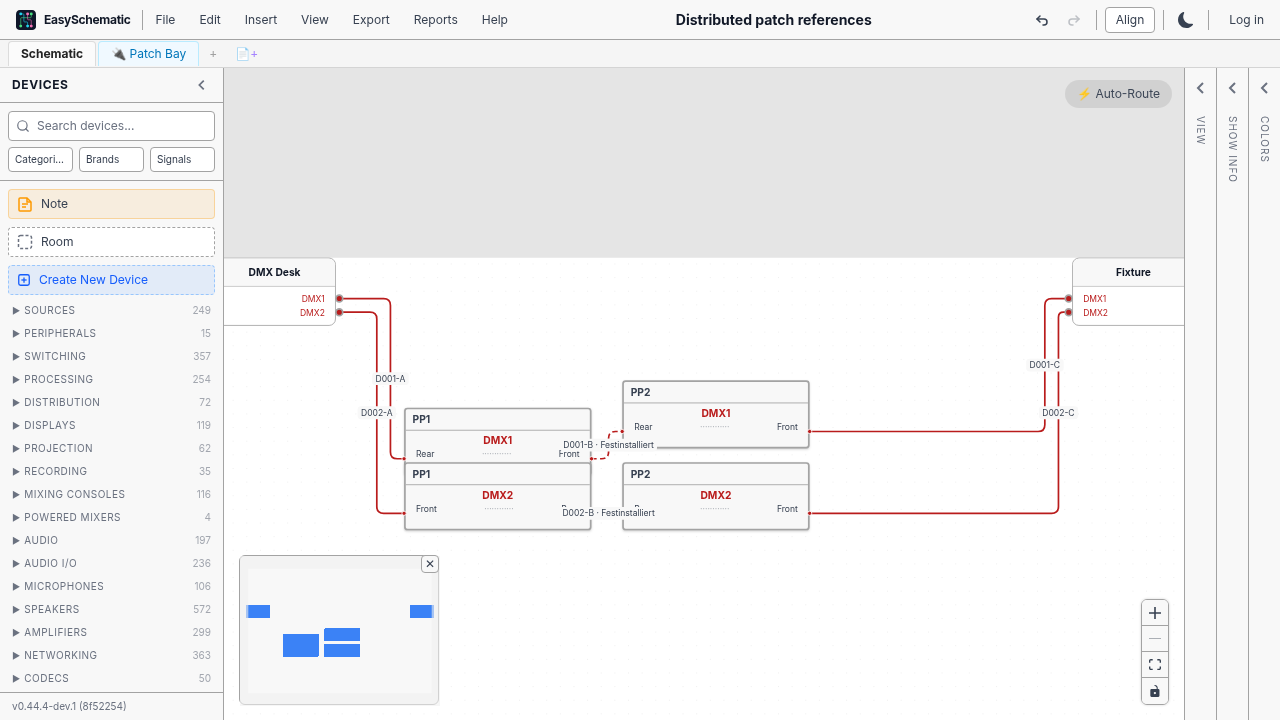
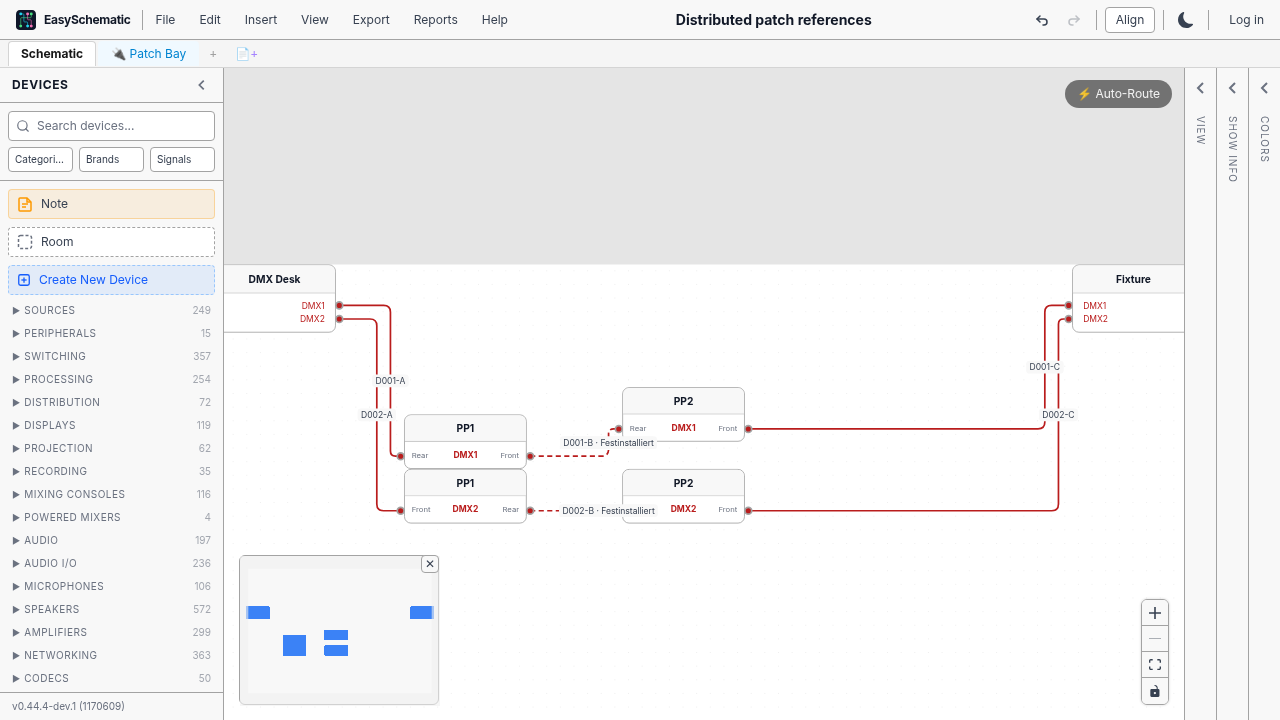
Compact patch references and open Patch Bay on double-click

diff --git a/src/components/PatchReferenceNode.tsx b/src/components/PatchReferenceNode.tsx
@@ -4,6 +4,9 @@ import { useSchematicStore } from "../store";
 import type { PatchReferenceNode as ReferenceNode } from "../types";
 import { entryFace, exitFace } from "../patchCircuits";
 import { signalCssColor } from "../typeRegistry";
+import { contrastingTextColor } from "../colorContrast";
+import { PATCH_REFERENCE_WIDTH, PATCH_REFERENCE_HEIGHT, PATCH_REFERENCE_HANDLE_Y } from "../patchReferences";
+import { openPatchBay } from "../patchBayNavigation";
 
 export default function PatchReferenceNode({ id, data, selected }: NodeProps<ReferenceNode>) {
   const panel = useSchematicStore(s => s.nodes.find(n => n.id === data.panelNodeId));
@@ -14,12 +17,24 @@ export default function PatchReferenceNode({ id, data, selected }: NodeProps<Ref
   const right = hop ? exitFace(hop) : "front";
   useEffect(() => { update(id); }, [id, left, update]);
   const port = panel?.type === "device" ? panel.data.ports.find(p => p.id === data.portId) : undefined;
+  const headerColor = panel?.type === "device" ? panel.data.headerColor : undefined;
+  const label = String(panel?.data.label ?? "Panel");
   const color = signalCssColor(edge?.data?.signalType ?? "custom");
-  return <div data-testid="patch-reference" className={`rounded border-2 bg-[var(--color-surface)] text-[var(--color-text)] shadow-sm ${selected ? "border-blue-500" : "border-[var(--color-border)]"}`} style={{ width: 220, height: 80 }}>
-    <div className="px-2 py-1 text-xs font-semibold truncate border-b border-[var(--color-border)]" title={String(panel?.data.label ?? "Panel")}>{String(panel?.data.label ?? "Panel")}</div>
-    <div className="text-center text-xs font-semibold pt-1 truncate" style={{ color }}>{port?.label || data.portId}</div>
-    <div className="flex justify-between px-3 text-[10px] capitalize"><span>{left}</span><span className="opacity-40">············</span><span>{right}</span></div>
-    <Handle type="source" id={left} position={Position.Left} isConnectable={false} style={{ top: 60, background: color }} />
-    <Handle type="source" id={right} position={Position.Right} isConnectable={false} style={{ top: 60, background: color }} />
+  return <div data-testid="patch-reference" title="Double-click to open Patch Bay"
+    onDoubleClick={() => openPatchBay(data.panelNodeId, data.connectionId)}
+    className={`relative rounded-lg border bg-white ${selected ? "border-blue-500 shadow-lg shadow-blue-500/20" : "border-[var(--color-border)]"}`}
+    style={{ width: PATCH_REFERENCE_WIDTH, height: PATCH_REFERENCE_HEIGHT }}>
+    <div className="px-3 border-b border-[var(--color-border)] rounded-t-lg flex items-center justify-center"
+      style={{ height: 31, backgroundColor: headerColor || "var(--color-surface)" }}>
+      <span className="text-xs font-semibold text-[var(--color-text-heading)] truncate leading-tight" title={label}
+        style={headerColor ? { color: contrastingTextColor(headerColor) } : undefined}>{label}</span>
+    </div>
+    <div className="grid grid-cols-[1fr_1.5fr_1fr] items-center px-2 gap-1" style={{ height: 31 }}>
+      <span className="text-[9px] text-[var(--color-text-muted)] capitalize">{left}</span>
+      <span className="text-[10px] font-semibold text-center truncate" title={port?.label || data.portId} style={{ color }}>{port?.label || data.portId}</span>
+      <span className="text-[9px] text-[var(--color-text-muted)] capitalize text-right">{right}</span>
+    </div>
+    <Handle type="source" id={left} position={Position.Left} isConnectable={false} className="!w-2.5 !h-2.5 !border-2 !border-[var(--color-border)] !-left-[5px]" style={{ top: PATCH_REFERENCE_HANDLE_Y, background: color }} />
+    <Handle type="source" id={right} position={Position.Right} isConnectable={false} className="!w-2.5 !h-2.5 !border-2 !border-[var(--color-border)] !-right-[5px]" style={{ top: PATCH_REFERENCE_HANDLE_Y, background: color }} />
   </div>;
 }

diff --git a/src/dxfExport/index.ts b/src/dxfExport/index.ts
@@ -1,4 +1,4 @@
-import { patchReferenceEdges } from "../patchReferences";
+import { PATCH_REFERENCE_WIDTH, PATCH_REFERENCE_HEIGHT, PATCH_REFERENCE_HANDLE_Y, patchReferenceEdges } from "../patchReferences";
 import { entryFace, exitFace } from "../patchCircuits";
 import type { ReactFlowInstance } from "@xyflow/react";
 import { useSchematicStore } from "../store";
@@ -100,10 +100,11 @@ export function buildDxf(rfInstance: ReactFlowInstance): string | null {
     const port = panel?.type === "device" ? panel.data.ports.find(p => p.id === node.data.portId) : undefined;
     const hop = state.edges.find(e => e.id === node.data.connectionId)?.data?.patchHops?.find(h => h.panelNodeId === node.data.panelNodeId && h.portId === node.data.portId);
     const { x, y } = internal.internals.positionAbsolute;
-    writer.addRect(CANONICAL_LAYERS.DEVICES, pxToIn(x), -pxToIn(y + 80), pxToIn(220), pxToIn(80));
-    writer.addText(CANONICAL_LAYERS.LABELS, pxToIn(x + 8), -pxToIn(y + 18), String(panel?.data.label ?? "Panel"), { height: pxToIn(11) });
-    writer.addText(CANONICAL_LAYERS.PORTS, pxToIn(x + 8), -pxToIn(y + 40), port?.label ?? node.data.portId, { height: pxToIn(11) });
-    writer.addText(CANONICAL_LAYERS.PORTS, pxToIn(x + 8), -pxToIn(y + 60), hop ? `${entryFace(hop)} | ${exitFace(hop)}` : "Rear | Front", { height: pxToIn(10) });
+    writer.addRect(CANONICAL_LAYERS.DEVICES, pxToIn(x), -pxToIn(y + PATCH_REFERENCE_HEIGHT), pxToIn(PATCH_REFERENCE_WIDTH), pxToIn(PATCH_REFERENCE_HEIGHT));
+    writer.addText(CANONICAL_LAYERS.LABELS, pxToIn(x + PATCH_REFERENCE_WIDTH / 2), -pxToIn(y + 20), String(panel?.data.label ?? "Panel"), { height: pxToIn(11), align: "center" });
+    writer.addText(CANONICAL_LAYERS.PORTS, pxToIn(x + PATCH_REFERENCE_WIDTH / 2), -pxToIn(y + PATCH_REFERENCE_HANDLE_Y + 3), port?.label ?? node.data.portId, { height: pxToIn(10), align: "center" });
+    writer.addText(CANONICAL_LAYERS.PORTS, pxToIn(x + 6), -pxToIn(y + PATCH_REFERENCE_HANDLE_Y + 3), hop ? entryFace(hop) : "Rear", { height: pxToIn(8) });
+    writer.addText(CANONICAL_LAYERS.PORTS, pxToIn(x + PATCH_REFERENCE_WIDTH - 6), -pxToIn(y + PATCH_REFERENCE_HANDLE_Y + 3), hop ? exitFace(hop) : "Front", { height: pxToIn(8), align: "right" });
   }
 
   // ─── Annotations ────────────────────────────────────────────────────

diff --git a/src/patchReferences.ts b/src/patchReferences.ts
@@ -1,8 +1,9 @@
 import type { ConnectionEdge, PatchReferenceNode, SchematicNode } from "./types";
 import { entryFace, exitFace, resolvableHops, segmentsForEdge } from "./patchCircuits";
 
-export const PATCH_REFERENCE_WIDTH = 220;
-export const PATCH_REFERENCE_HEIGHT = 80;
+export const PATCH_REFERENCE_WIDTH = 144;
+export const PATCH_REFERENCE_HEIGHT = 64;
+export const PATCH_REFERENCE_HANDLE_Y = 48;
 export function patchReferenceId(edgeId: string, panelId: string, portId: string): string {
   return `patch-ref:${encodeURIComponent(edgeId)}:${encodeURIComponent(panelId)}:${encodeURIComponent(portId)}`;
 }
@@ -35,7 +36,11 @@ export function reconcilePatchReferences(nodes: SchematicNode[], edges: Connecti
       wanted.add(id);
       const hidden = edge.data?.showPatchReferences === false;
       if (old) {
-        if (!!old.hidden !== hidden) updates.set(id, { ...old, hidden });
+        const resized = old.width !== PATCH_REFERENCE_WIDTH || old.height !== PATCH_REFERENCE_HEIGHT;
+        if (!!old.hidden !== hidden || resized) updates.set(id, {
+          ...old, hidden, width: PATCH_REFERENCE_WIDTH, height: PATCH_REFERENCE_HEIGHT,
+          ...(resized ? { measured: undefined } : {}),
+        });
       } else additions.push({
         id, type: "patch-reference", position: { x: sourcePosition.x + 220 + i * 260, y: sourcePosition.y + 140 + lane * 100 },
         width: PATCH_REFERENCE_WIDTH, height: PATCH_REFERENCE_HEIGHT, hidden, zIndex: 5,

diff --git a/e2e/physical-path.spec.ts b/e2e/physical-path.spec.ts
@@ -18,6 +18,8 @@ test("distributed references route to physical faces, remain independently movab
   await expect(page.locator(".react-flow")).toBeVisible({ timeout: 30000 });
   await page.locator('input[type="file"][accept=".json"]').first().setInputFiles({ name: "references.json", mimeType: "application/json", buffer: Buffer.from(JSON.stringify(fixture)) });
   await expect(page.getByTestId("patch-reference")).toHaveCount(4);
+  await expect(page.getByTestId("patch-reference").first()).toHaveCSS("width", "144px");
+  await expect(page.getByTestId("patch-reference").first()).toHaveCSS("height", "64px");
   await expect(page.locator(".react-flow__edge-patch-reference-edge")).toHaveCount(6);
   const refs = page.locator('.react-flow__node-patch-reference');
   const first = refs.nth(0);
@@ -33,7 +35,7 @@ test("distributed references route to physical faces, remain independently movab
   await page.reload();
   await expect(page.getByTestId("patch-reference")).toHaveCount(4);
   await expect.poll(() => page.locator('.react-flow__node-patch-reference').nth(0).getAttribute("style")).toBe(saved);
-  await page.getByRole("button", { name: /Patch Bay/ }).click();
+  await page.getByTestId("patch-reference").first().dblclick();
   const flip = page.getByTestId("flip-patch-face").first();
   await expect(flip).toContainText("Previous: Front");
   await flip.click();

diff --git a/src/components/SupplierInput.tsx b/src/components/SupplierInput.tsx
@@ -2,11 +2,11 @@ import { useId } from "react";
 import { useSchematicStore } from "../store";
 import { usedSuppliers } from "../suppliers";
 
-export default function SupplierInput({ value, onChange }: { value: string; onChange: (value: string) => void }) {
+export default function SupplierInput({ value, onChange, className }: { value: string; onChange: (value: string) => void; className?: string }) {
   const id = useId();
   const nodes = useSchematicStore(s => s.nodes);
   const edges = useSchematicStore(s => s.edges);
-  return <><input aria-label="Supplier" className="w-full border rounded px-2 py-1 text-xs" list={id} value={value}
+  return <><input aria-label="Supplier" className={className ?? "w-full border rounded px-2 py-1 text-xs"} list={id} value={value}
     onDoubleClick={e => e.stopPropagation()} placeholder="Supplier…" onChange={e => onChange(e.target.value)} onKeyDown={e => e.stopPropagation()} />
     <datalist id={id}>{usedSuppliers(nodes, edges).map(name => <option key={name} value={name} />)}</datalist></>;
 }

diff --git a/src/components/DeviceEditor.tsx b/src/components/DeviceEditor.tsx
@@ -1137,6 +1137,10 @@ export default function DeviceEditor() {
                 placeholder="https://…"
               />
             </Field>
+            <Field label="Supplier">
+              <SupplierInput value={supplier} onChange={setSupplier}
+                className="w-full bg-[var(--color-surface)] border border-[var(--color-border)] rounded px-2 py-1.5 text-xs text-[var(--color-text-heading)] outline-none focus:border-blue-500" />
+            </Field>
           </div>
 
           {/* Header color picker */}
@@ -1591,9 +1595,6 @@ export default function DeviceEditor() {
             </div>
           </details>
 
-          <div className="grid grid-cols-2 gap-3 text-xs my-2">
-            <label>Supplier<SupplierInput value={supplier} onChange={setSupplier} /></label>
-          </div>
           {/* Cost & Procurement */}
           <details className="text-xs">
             <summary className="cursor-pointer text-[var(--color-text-secondary)] hover:text-[var(--color-text)] select-none py-1">

diff --git a/src/components/PatchPanelPage.tsx b/src/components/PatchPanelPage.tsx
@@ -1,3 +1,5 @@
+import { useEffect } from "react";
+import { takePatchBayFocus } from "../patchBayNavigation";
 import { useSchematicStore } from "../store";
 import PatchPanelSidebar from "./PatchPanelSidebar";
 import PatchPanelRenderer from "./PatchPanelRenderer";
@@ -5,6 +7,11 @@ import PatchPanelRenderer from "./PatchPanelRenderer";
 export default function PatchPanelPage() {
   const activePage = useSchematicStore((s) => s.activePage);
   const pages = useSchematicStore((s) => s.pages);
+
+  useEffect(() => {
+    const panelId = takePatchBayFocus();
+    if (panelId) document.getElementById(`ppblk-${panelId}`)?.scrollIntoView({ block: "center" });
+  }, [activePage]);
 
   const page = pages.find((p) => p.id === activePage);
   if (!page || page.type !== "patch-panel") return null;

diff --git a/src/components/DeviceNode.tsx b/src/components/DeviceNode.tsx
@@ -1,3 +1,4 @@
+import { openPatchBay } from "../patchBayNavigation";
 import { memo, useMemo, useCallback } from "react";
 import { Handle, Position, type NodeProps } from "@xyflow/react";
 import type { DeviceNode as DeviceNodeType, Port } from "../types";
@@ -493,7 +494,7 @@ function DeviceNodeComponent({ id, data, selected }: NodeProps<DeviceNodeType>) 
 
   return (
     <div
-      onDoubleClick={() => setEditingNodeId(id)}
+      onDoubleClick={() => data.deviceType === "patch-panel" ? openPatchBay(id) : setEditingNodeId(id)}
       className={`
         relative rounded-lg border bg-white
         ${isOverlapping ? "border-red-400 shadow-lg shadow-red-400/30" : selected ? "border-blue-500 shadow-lg shadow-blue-500/20" : "border-[var(--color-border)]"}

diff --git a/src/patchBayNavigation.ts b/src/patchBayNavigation.ts
@@ -1,0 +1,19 @@
+import { useSchematicStore } from "./store";
+
+let pendingPanel: string | null = null;
+
+/** Open the shared Patch Bay, retaining the real panel identity behind a local reference. */
+export function openPatchBay(panelNodeId: string, connectionId?: string): void {
+  const store = useSchematicStore.getState();
+  pendingPanel = panelNodeId;
+  const pageId = store.addPatchPanelPage();
+  store.setActivePage(pageId);
+  store.setPatchAssignEdge(null);
+  store.setPatchTracedEdge(connectionId ?? null);
+}
+
+export function takePatchBayFocus(): string | null {
+  const panel = pendingPanel;
+  pendingPanel = null;
+  return panel;
+}

diff --git a/docs/physical-paths-and-suppliers.md b/docs/physical-paths-and-suppliers.md
@@ -19,7 +19,9 @@ Changing the face preserves section lengths, suppliers and cable labels.
 
 Virtual patch assignments now show local, independently movable panel-position
 references. Every reference names the real panel and used position (for example DMX1)
-and exposes its Front and Rear faces. The lines actually terminate at these handles;
+and exposes its Front and Rear faces. Compact references use the same 144px width
+and header / port-row styling as devices. Double-click a reference or a real patch
+panel device to open Patch Bay at the corresponding panel. The lines actually terminate at these handles;
 the usual automatic or simple router routes each displayed section.
 
 The same real panel can appear at multiple places along different circuits. These
